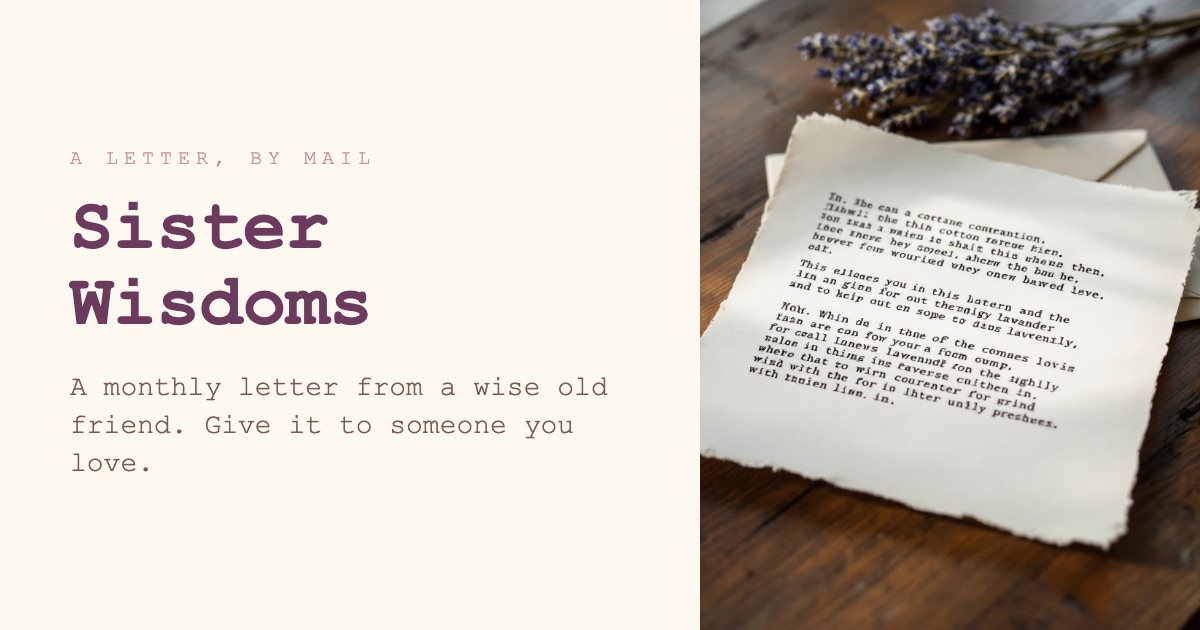
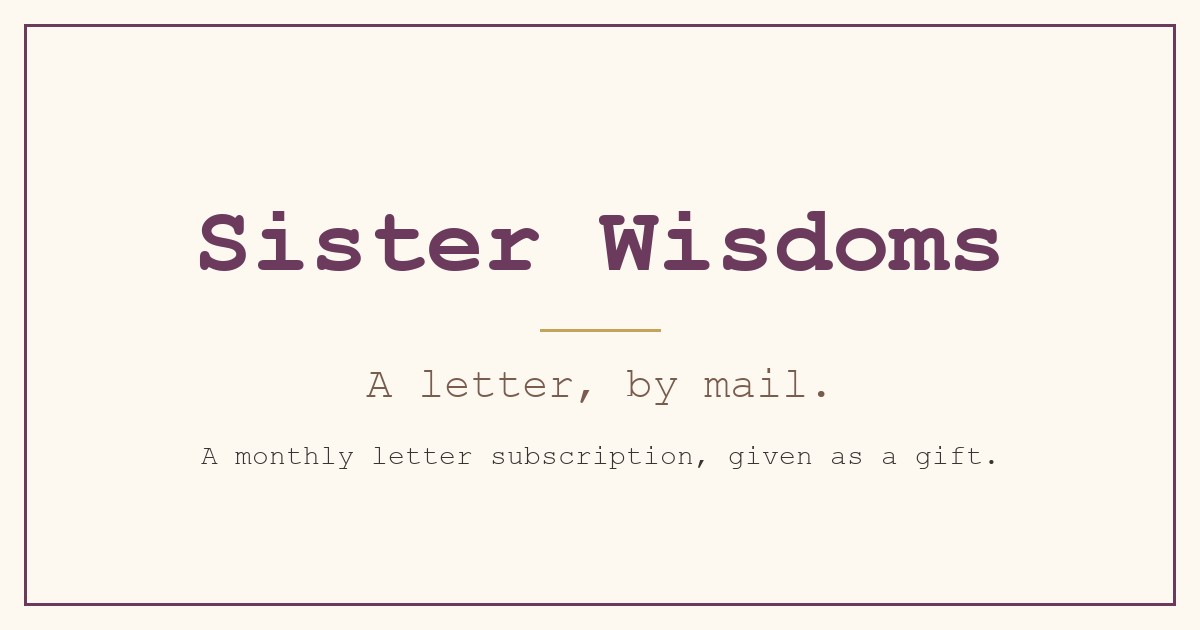
Gate 3 fixes: label sample letter as generated illustration, branded OG card, honest copy/opt-in status, /capture a11y, trackers production-only

diff --git a/src/app/capture/page.tsx b/src/app/capture/page.tsx
@@ -48,7 +48,7 @@ export default function CapturePage() {
   }
 
   return (
-    <main
+    <div
       style={{
         minHeight: "100dvh",
         display: "flex",
@@ -116,24 +116,24 @@ export default function CapturePage() {
             </p>
             <form onSubmit={handleSubmit} style={{ display: "flex", flexDirection: "column", gap: "14px", textAlign: "left" }}>
               <div>
-                <label style={labelStyle}>First Name</label>
-                <input name="firstName" type="text" required placeholder="First name" autoComplete="given-name" style={inputStyle} />
+                <label htmlFor="firstName" style={labelStyle}>First Name</label>
+                <input id="firstName" name="firstName" type="text" required placeholder="First name" autoComplete="given-name" style={inputStyle} />
               </div>
               <div>
-                <label style={labelStyle}>Last Name</label>
-                <input name="lastName" type="text" required placeholder="Last name" autoComplete="family-name" style={inputStyle} />
+                <label htmlFor="lastName" style={labelStyle}>Last Name</label>
+                <input id="lastName" name="lastName" type="text" required placeholder="Last name" autoComplete="family-name" style={inputStyle} />
               </div>
               <div>
-                <label style={labelStyle}>Email</label>
-                <input name="email" type="email" required placeholder="you@example.com" autoComplete="email" style={inputStyle} />
+                <label htmlFor="email" style={labelStyle}>Email</label>
+                <input id="email" name="email" type="email" required placeholder="you@example.com" autoComplete="email" style={inputStyle} />
               </div>
               <div>
-                <label style={labelStyle}>
-                  Phone <span style={{ color: "#c0b5a8" }}>(optional)</span>
+                <label htmlFor="phone" style={labelStyle}>
+                  Phone <span style={{ color: "#7A5C4F" }}>(optional)</span>
                 </label>
-                <input name="phone" type="tel" placeholder="(555) 555-5555" autoComplete="tel" style={inputStyle} />
+                <input id="phone" name="phone" type="tel" placeholder="(555) 555-5555" autoComplete="tel" style={inputStyle} />
               </div>
-              <input type="text" name="website" style={{ position: "absolute", left: "-9999px" }} tabIndex={-1} autoComplete="off" />
+              <input type="text" name="website" aria-hidden="true" style={{ position: "absolute", left: "-9999px" }} tabIndex={-1} autoComplete="off" />
               <button
                 type="submit"
                 disabled={loading}
@@ -151,15 +151,15 @@ export default function CapturePage() {
               >
                 {loading ? "Submitting…" : "Keep me posted"}
               </button>
-              {error && <p style={{ color: "#c45", fontSize: "0.8rem", textAlign: "center" }}>{error}</p>}
-              <p style={{ fontSize: "0.7rem", color: "#a09486", marginTop: "8px", textAlign: "center", lineHeight: 1.4 }}>
+              {error && <p style={{ color: "#9b2c3d", fontSize: "0.875rem", textAlign: "center" }}>{error}</p>}
+              <p style={{ fontSize: "0.8125rem", color: "#6b5a50", marginTop: "8px", textAlign: "center", lineHeight: 1.4 }}>
                 We will email you about Sister Wisdoms only. Unsubscribe anytime.
               </p>
             </form>
           </>
         )}
       </div>
-    </main>
+    </div>
   )
 }
 

diff --git a/src/components/GiftForm.tsx b/src/components/GiftForm.tsx
@@ -10,7 +10,7 @@ const label = "block font-type text-sm text-deep-plum mb-1";
 export default function GiftForm({ options, price }: { options: StartOption[]; price: string }) {
   const [state, setState] = useState<"idle" | "sending" | "done" | "error">("idle");
   const [error, setError] = useState("");
-  const [done, setDone] = useState<{ giver: string; recipient: string; start: string; preview: boolean } | null>(null);
+  const [done, setDone] = useState<{ giver: string; recipient: string; start: string; preview: boolean; copySent: boolean; listFailed: boolean } | null>(null);
 
   async function onSubmit(e: React.FormEvent<HTMLFormElement>) {
     e.preventDefault();
@@ -28,7 +28,7 @@ export default function GiftForm({ options, price }: { options: StartOption[]; p
       const res = await fetch("/api/gift", { method: "POST", headers: { "Content-Type": "application/json" }, body: JSON.stringify(body) });
       const json = await res.json().catch(() => ({ ok: false }));
       if (!res.ok || json.ok !== true) throw new Error(typeof json.error === "string" ? json.error : "failed");
-      setDone({ giver: String(body.giverEmail), recipient: String(body.recipientName), start: json.startLabel || "", preview: !!json.preview });
+      setDone({ giver: String(body.giverEmail), recipient: String(body.recipientName), start: json.startLabel || "", preview: !!json.preview, copySent: json.copySent === true, listFailed: json.listAdded === false });
       setState("done");
       (window as unknown as { dataLayer?: unknown[] }).dataLayer?.push({ event: "gift_request_submitted" });
     } catch (err) {
@@ -46,8 +46,15 @@ export default function GiftForm({ options, price }: { options: StartOption[]; p
         </p>
         <p className="text-lg text-warm-brown leading-relaxed mt-3">
           <strong>You have not been charged.</strong> Tim or Cherie will email you at {done.giver} to complete payment and confirm
-          the details. A copy of your request is on its way to that address.
+          the details. {done.copySent
+            ? "A copy of your request is on its way to that address."
+            : "We could not send you a copy email, but we have your request."}
         </p>
+        {done.listFailed && (
+          <p className="text-lg text-warm-brown leading-relaxed mt-3">
+            We could not add you to the news list just now. Your gift request is not affected.
+          </p>
+        )}
         {done.preview && <p className="font-type text-xs text-warm-brown mt-4">Preview site: test request.</p>}
       </div>
     );

diff --git a/src/app/layout.tsx b/src/app/layout.tsx
@@ -10,7 +10,9 @@ const bodyFont = Cormorant_Garamond({ subsets: ["latin"], weight: ["400", "500",
 const TITLE = "Sister Wisdoms | A Monthly Letter Subscription Gift";
 const DESC =
   "Give a monthly paper letter from a wise old friend, mailed to her door. Write a note, pick a start month, and we'll email you to finish. $18 a month, one tier.";
-const OG_ALT = "A typed letter on cream paper beside an envelope and dried lavender";
+const OG_ALT = "Sister Wisdoms. A letter, by mail.";
+// Trackers load on the production deployment only (not preview or local).
+const TRACK = process.env.VERCEL_ENV === "production";
 
 export const metadata: Metadata = {
   metadataBase: new URL(SITE.url),
@@ -51,6 +53,7 @@ export default function RootLayout({
           If tracking isn't firing, the container is likely unpublished —
           open tagmanager.google.com > the container > Submit > Publish.
         */}
+        {TRACK && (
         <Script id="gtm" strategy="afterInteractive">
           {`(function(w,d,s,l,i){w[l]=w[l]||[];w[l].push({'gtm.start':
           new Date().getTime(),event:'gtm.js'});var f=d.getElementsByTagName(s)[0],
@@ -58,6 +61,7 @@ export default function RootLayout({
           'https://www.googletagmanager.com/gtm.js?id='+i+dl;f.parentNode.insertBefore(j,f);
           })(window,document,'script','dataLayer','GTM-5TBFTKZT');`}
         </Script>
+        )}
 
         {/*
           Brevo page-view tracker (belt & suspenders alongside the GTM tag).
@@ -65,6 +69,7 @@ export default function RootLayout({
           Replace BREVO_CLIENT_KEY with the key from
           app.brevo.com > Automation > Settings > Tracking Code.
         */}
+        {TRACK && (
         <Script id="brevo-tracker" strategy="afterInteractive">
           {`(function() {
             var key = '9u1hsxe9gvu5e6i2ar4j28q2';
@@ -76,17 +81,18 @@ export default function RootLayout({
             fjs.parentNode.insertBefore(js, fjs);
           })();`}
         </Script>
+        )}
 
       </head>
       <body className="min-h-full flex flex-col bg-cream text-charcoal">
-        <noscript>
+        {TRACK && <noscript>
           <iframe
             src="https://www.googletagmanager.com/ns.html?id=GTM-5TBFTKZT"
             height="0"
             width="0"
             style={{ display: "none", visibility: "hidden" }}
           />
-        </noscript>
+        </noscript>}
         <main className="flex-1">{children}</main>
       </body>
     </html>

diff --git a/src/app/page.tsx b/src/app/page.tsx
@@ -39,7 +39,7 @@ export default function Home() {
       name: "Sister Wisdoms monthly letter subscription",
       description:
         "One paper letter a month, written in the voice of a wise old friend and mailed to the recipient's home. Available as a gift.",
-      image: `${SITE.url}/og-default.jpg`,
+      image: `${SITE.url}/logo.png`,
       brand: { "@type": "Brand", name: "Sister Wisdoms" },
       url: SITE.url,
       offers: {
@@ -109,11 +109,11 @@ export default function Home() {
                 height={1024}
                 priority
                 sizes="(min-width: 768px) 480px, 100vw"
-                alt="A typed letter on cream paper beside an envelope and a sprig of dried lavender on a wooden table"
+                alt="Generated illustration of a typed letter on cream paper"
                 className="rounded-md shadow-xl w-full h-auto"
               />
               <p className="text-sm text-warm-brown/80 mt-2">
-                Illustrative photograph.
+                Illustration: generated image, not an actual Sister Wisdoms letter.
               </p>
             </div>
           </div>

diff --git a/src/app/api/gift/route.ts b/src/app/api/gift/route.ts
@@ -84,10 +84,13 @@ ${row("OK to add giver to updates list", d.keepPosted ? "yes" : "no")}
 <p>Tim &amp; Cherie Flanagan<br/>Sister Wisdoms, Salado, Texas</p>`,
   });
 
+  // listAdded: null = not requested, true = added (or intentionally skipped on preview), false = failed.
+  let listAdded: boolean | null = null;
   if (d.keepPosted) {
     const [first, ...rest] = d.giverName.split(" ");
-    await addContact(d.giverEmail, { FIRSTNAME: first, LASTNAME: rest.join(" ") });
+    listAdded = await addContact(d.giverEmail, { FIRSTNAME: first, LASTNAME: rest.join(" ") });
+    if (!listAdded) console.error("Gift request: news opt-in requested but contact add failed");
   }
 
-  return NextResponse.json({ ok: true, copySent: copyOk, preview: isPreview(), startLabel });
+  return NextResponse.json({ ok: true, copySent: copyOk, listAdded, preview: isPreview(), startLabel });
 }

diff --git a/src/app/capture/layout.tsx b/src/app/capture/layout.tsx
@@ -3,7 +3,15 @@ import type { Metadata } from "next";
 export const metadata: Metadata = {
   title: { absolute: "Join the Sister Wisdoms list" },
   robots: { index: false, follow: false },
+  description: "Leave your name and email and we will keep you posted about Sister Wisdoms.",
   alternates: { canonical: "/capture" },
+  openGraph: {
+    type: "website",
+    url: "/capture",
+    title: "Join the Sister Wisdoms list",
+    description: "Leave your name and email and we will keep you posted about Sister Wisdoms.",
+    images: [{ url: "/og-default.jpg", width: 1200, height: 630, alt: "Sister Wisdoms. A letter, by mail." }],
+  },
 };
 
 export default function CaptureLayout({ children }: { children: React.ReactNode }) {
